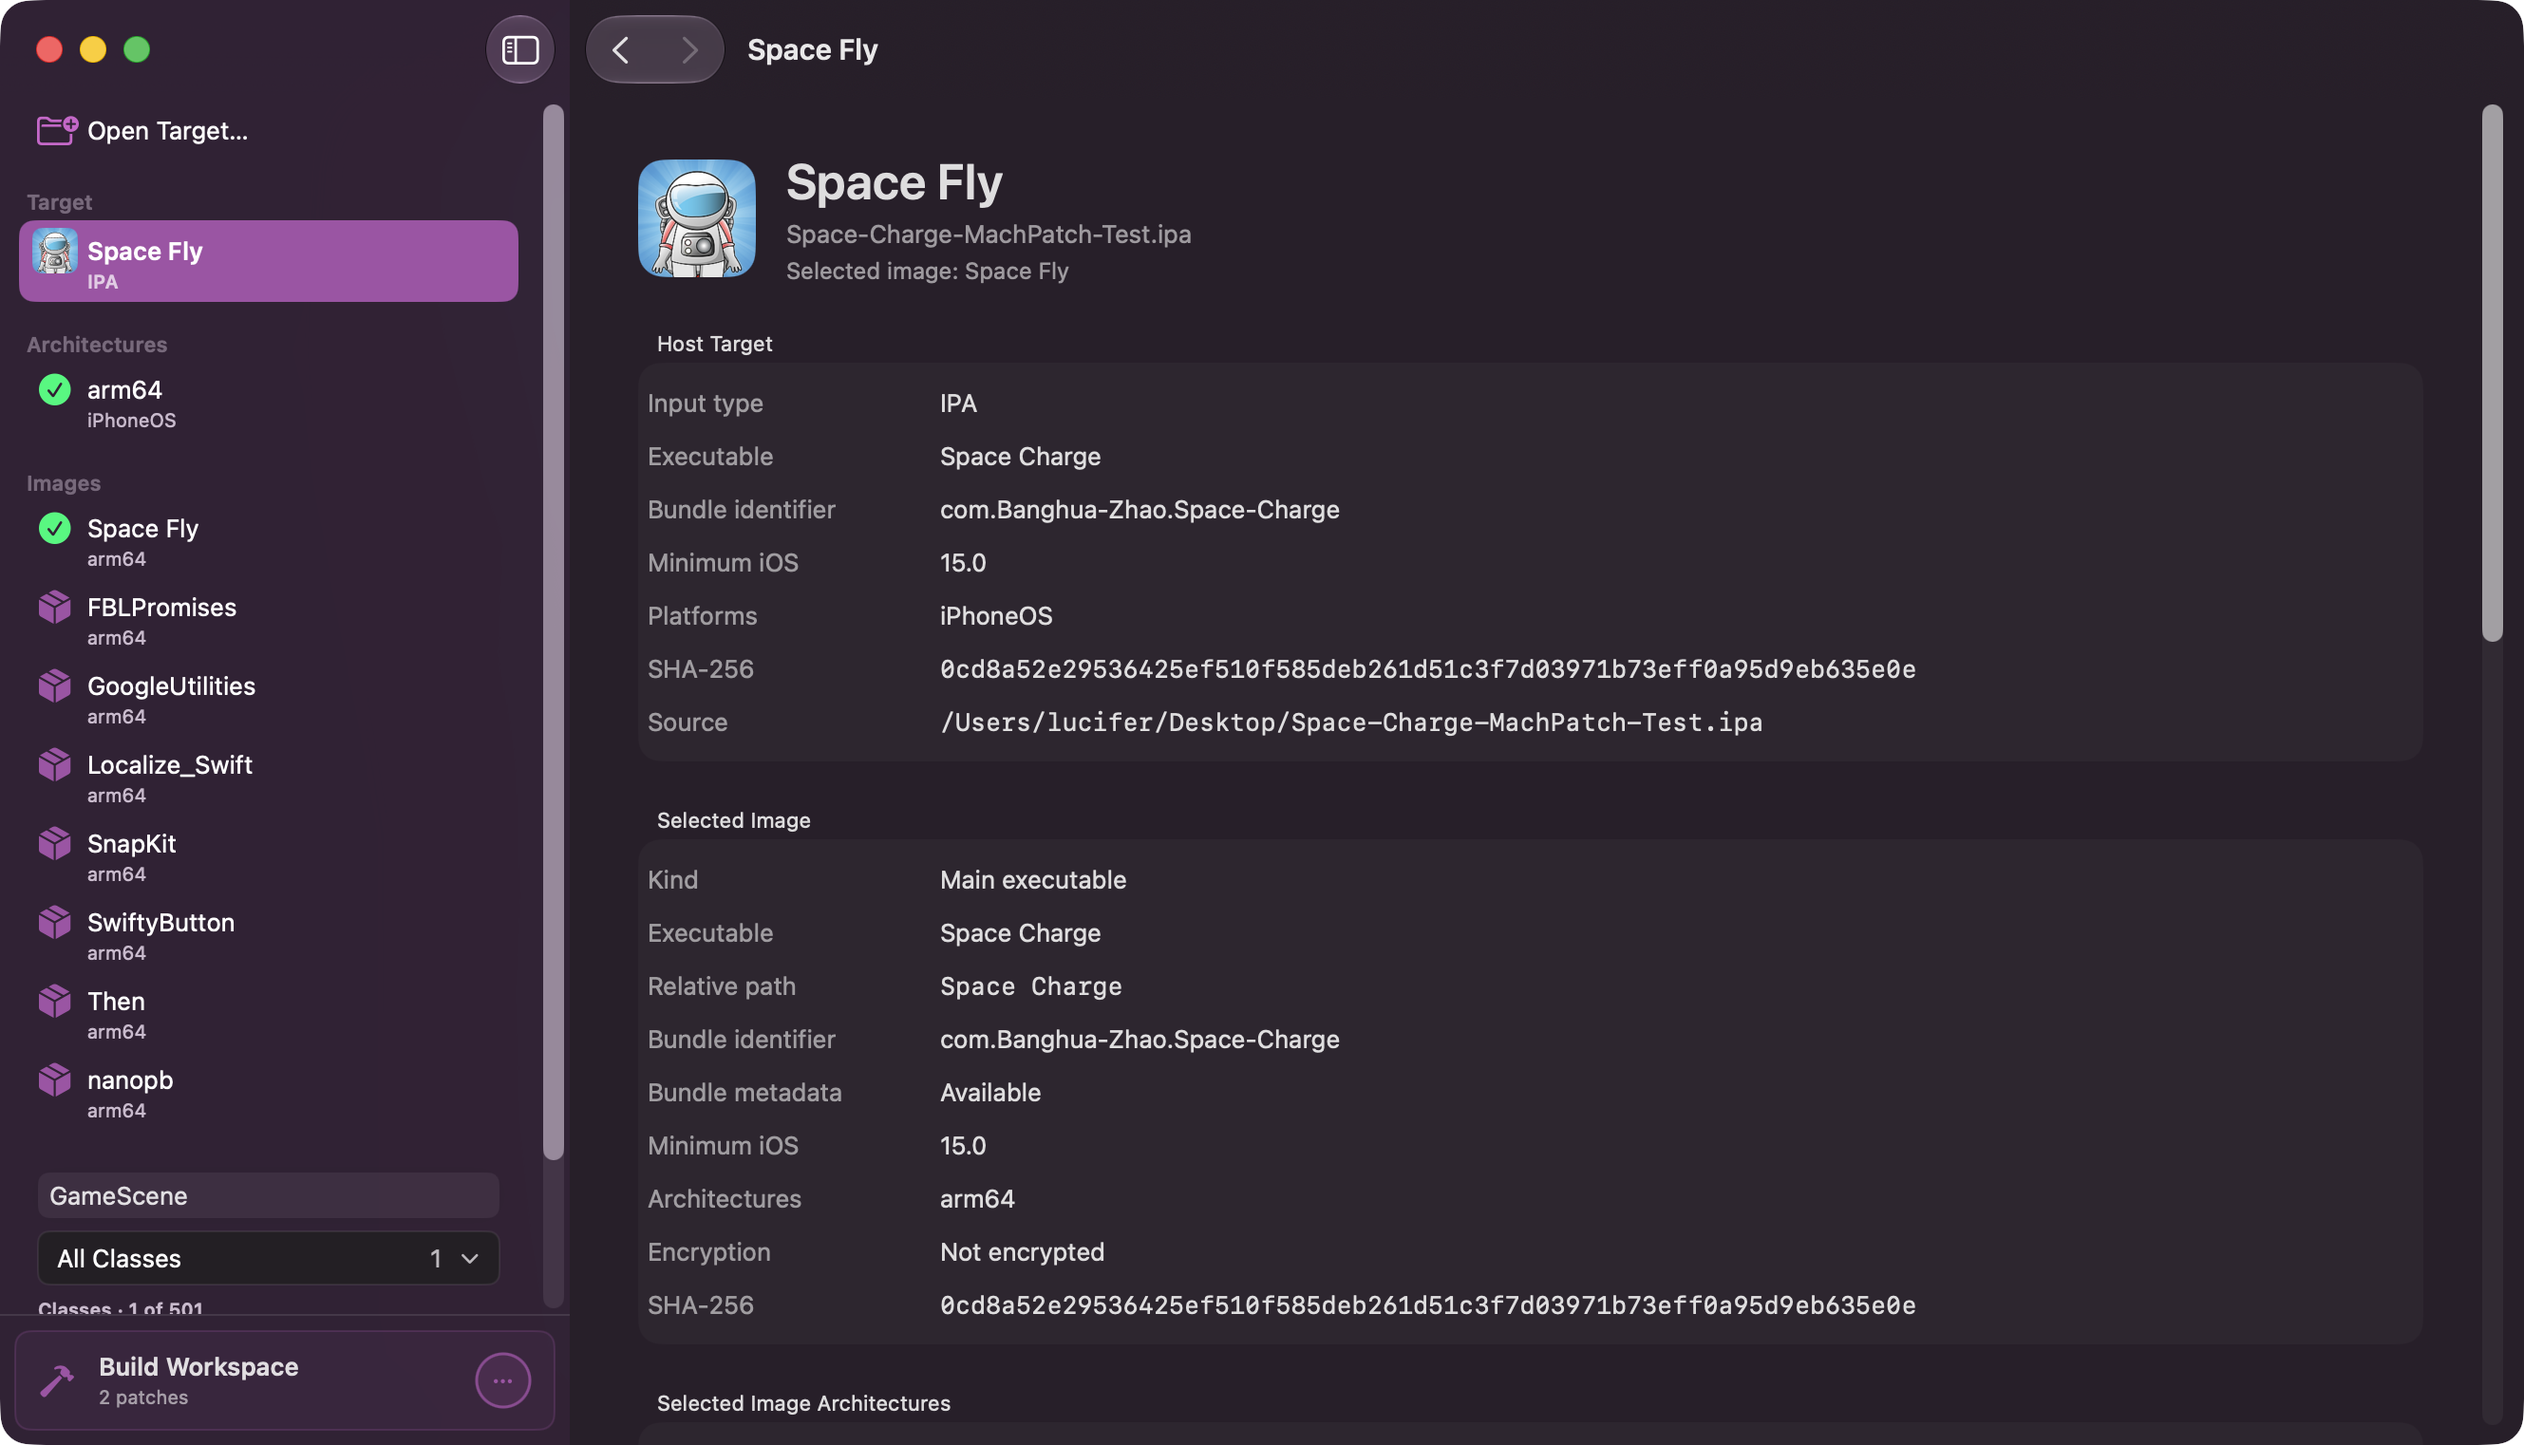
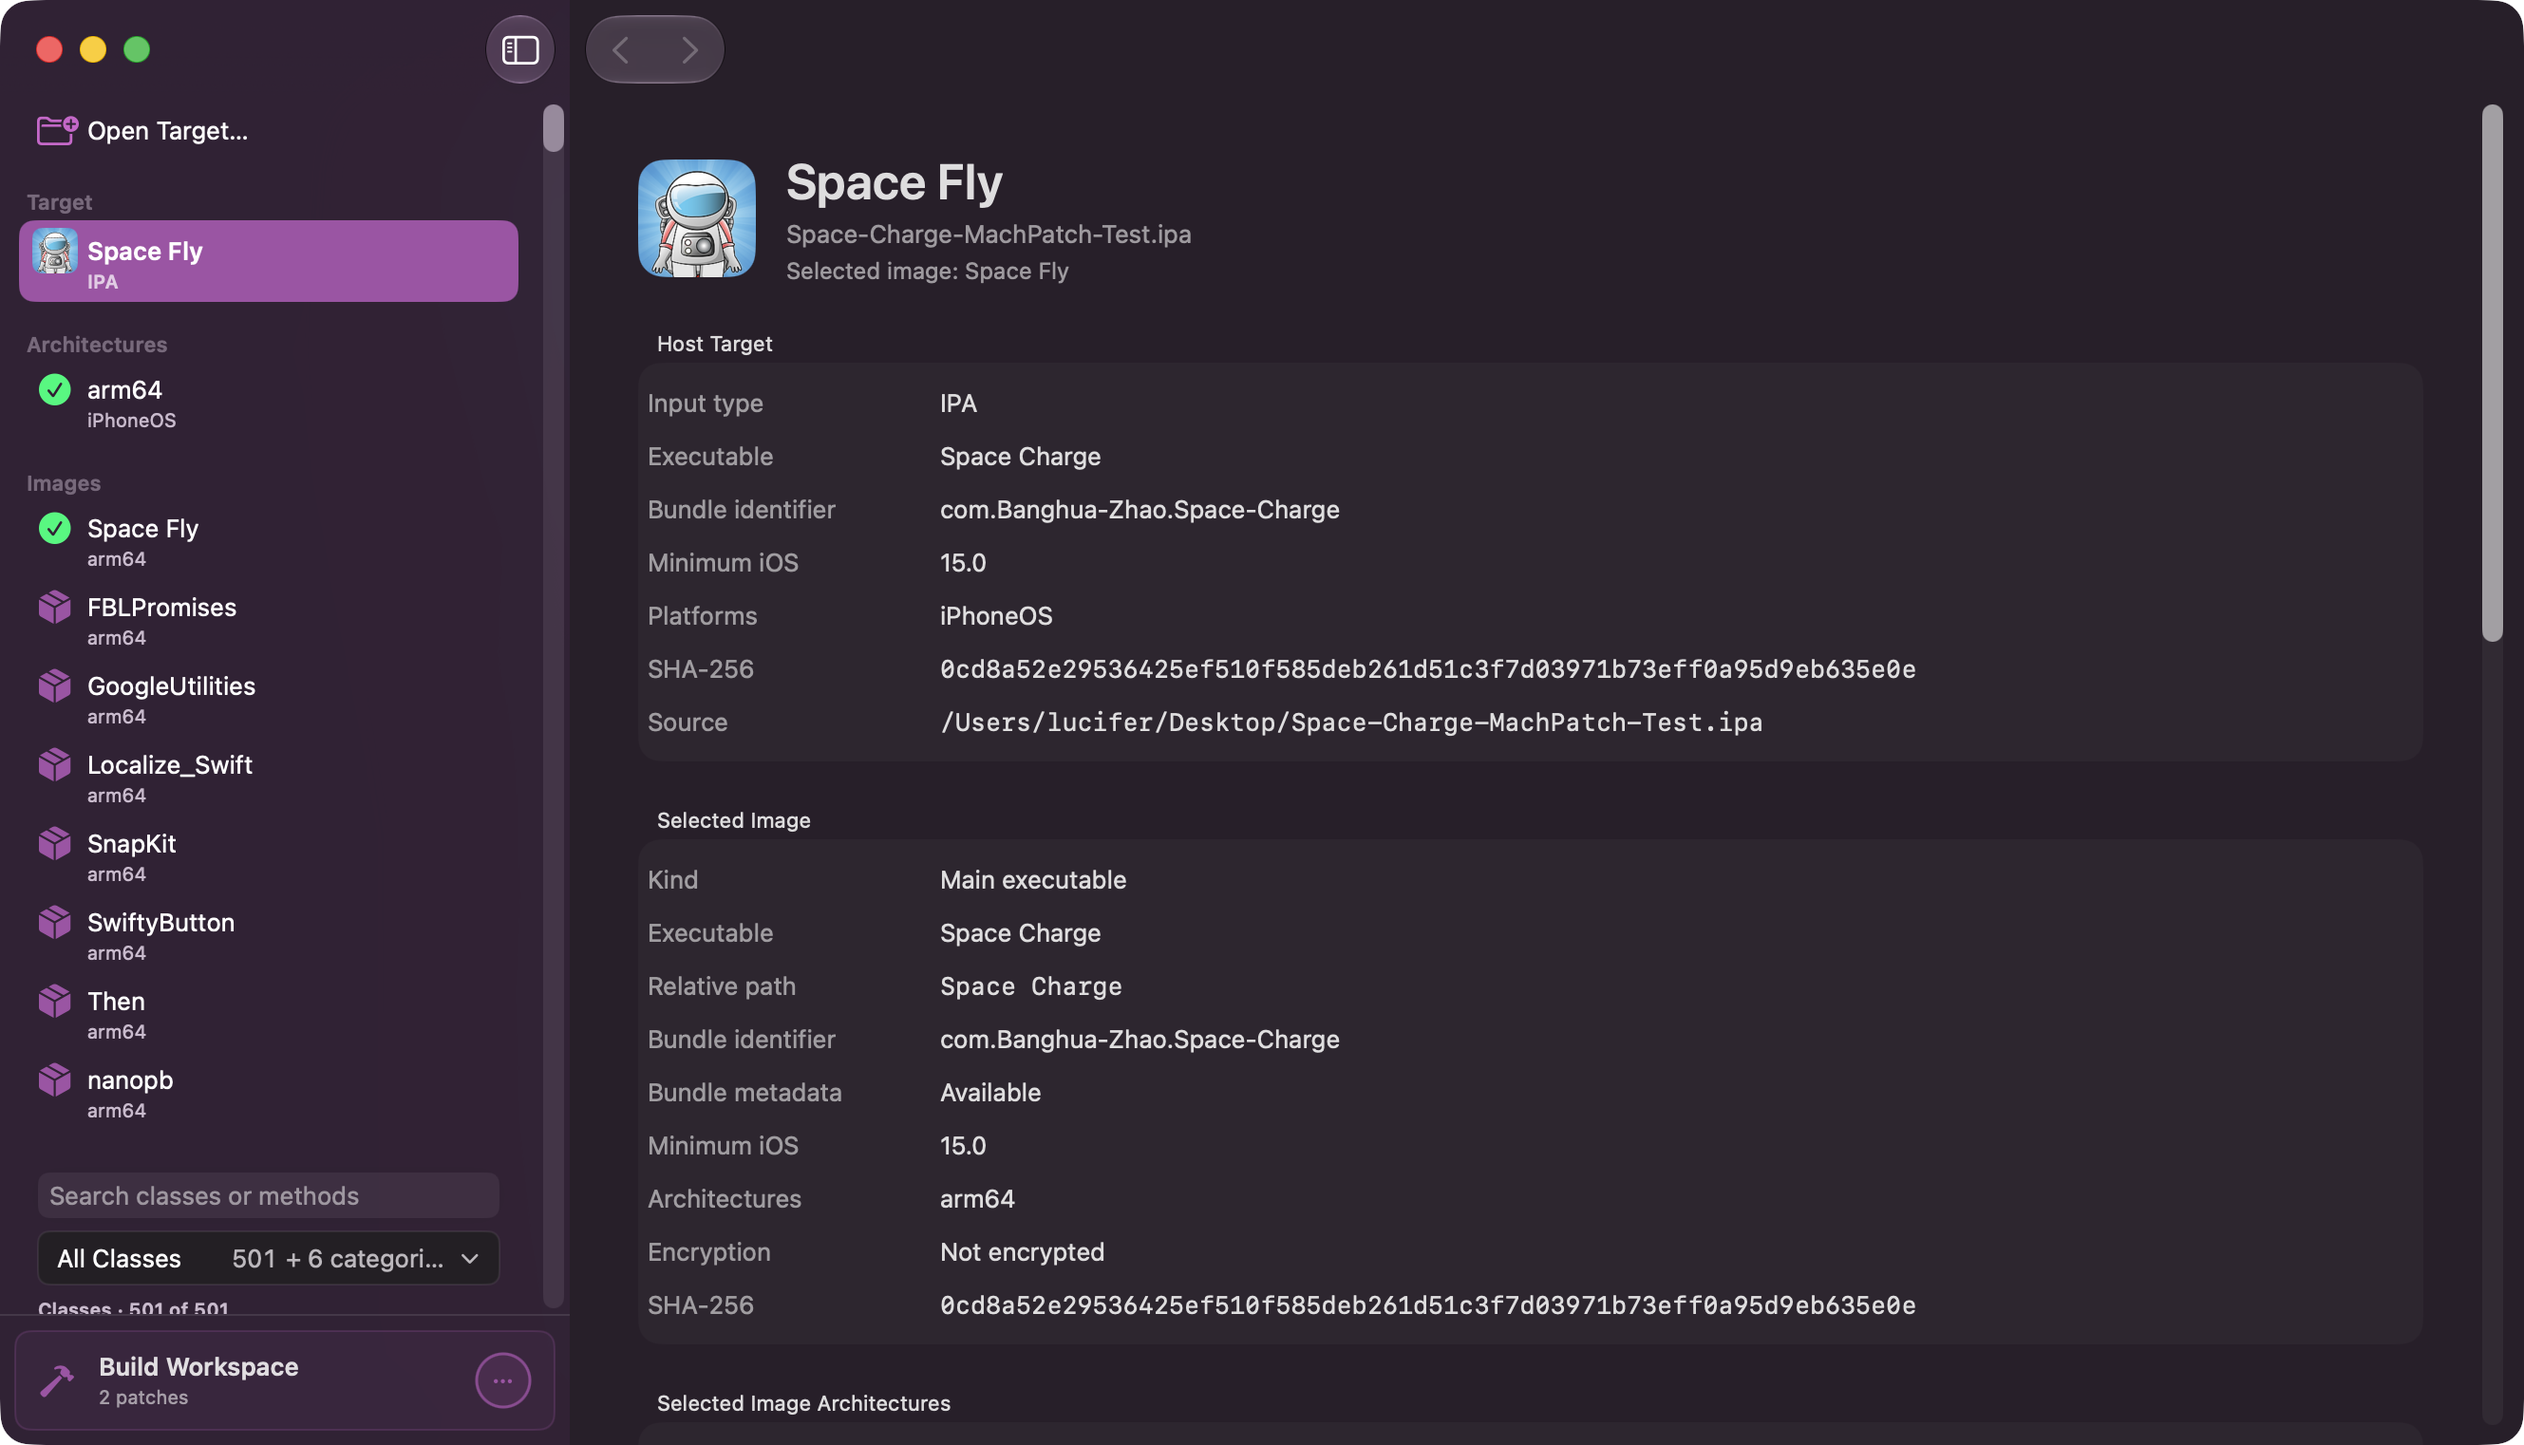
fix(app): remove redundant detail titles

diff --git a/Sources/MachPatchApp/ToolbarTitleVisibility.swift b/Sources/MachPatchApp/ToolbarTitleVisibility.swift
@@ -1,0 +1,60 @@
+import AppKit
+import SwiftUI
+
+extension View {
+    @ViewBuilder
+    func machPatchToolbarTitleHidden() -> some View {
+        if #available(macOS 15.0, *) {
+            toolbar(removing: .title)
+        } else {
+            background(WindowTitleVisibilityBridge())
+        }
+    }
+}
+
+private struct WindowTitleVisibilityBridge: NSViewRepresentable {
+    func makeNSView(context: Context) -> WindowTitleVisibilityView {
+        WindowTitleVisibilityView()
+    }
+
+    func updateNSView(_ nsView: WindowTitleVisibilityView, context: Context) {
+        nsView.hideTitle()
+    }
+
+    static func dismantleNSView(
+        _ nsView: WindowTitleVisibilityView,
+        coordinator: Void
+    ) {
+        nsView.restoreTitleVisibility()
+    }
+}
+
+private final class WindowTitleVisibilityView: NSView {
+    private weak var configuredWindow: NSWindow?
+    private var originalTitleVisibility: NSWindow.TitleVisibility?
+
+    override func viewDidMoveToWindow() {
+        super.viewDidMoveToWindow()
+        hideTitle()
+    }
+
+    func hideTitle() {
+        guard let window else { return }
+        if configuredWindow !== window {
+            restoreTitleVisibility()
+            configuredWindow = window
+            originalTitleVisibility = window.titleVisibility
+        }
+        window.titleVisibility = .hidden
+    }
+
+    func restoreTitleVisibility() {
+        guard
+            let configuredWindow,
+            let originalTitleVisibility
+        else { return }
+        configuredWindow.titleVisibility = originalTitleVisibility
+        self.configuredWindow = nil
+        self.originalTitleVisibility = nil
+    }
+}

diff --git a/Sources/MachPatchApp/ClassBrowserView.swift b/Sources/MachPatchApp/ClassBrowserView.swift
@@ -50,7 +50,7 @@ struct ClassBrowserView: View {
             }
         }
         .frame(maxWidth: .infinity, maxHeight: .infinity, alignment: .topLeading)
-        .navigationTitle(objectiveCClass.name)
+        .machPatchToolbarTitleHidden()
         .onAppear {
             applyClassSearchSelectionRequest(model.classSearchSelectionRequest)
         }

diff --git a/Sources/MachPatchApp/TargetSummaryView.swift b/Sources/MachPatchApp/TargetSummaryView.swift
@@ -20,7 +20,7 @@ struct TargetSummaryView: View {
             .frame(maxWidth: 940, alignment: .leading)
             .padding(28)
         }
-        .navigationTitle(displayName)
+        .machPatchToolbarTitleHidden()
     }
 
     private func patchabilityDetails(_ report: ObjectiveCPatchabilityReport) -> some View {
